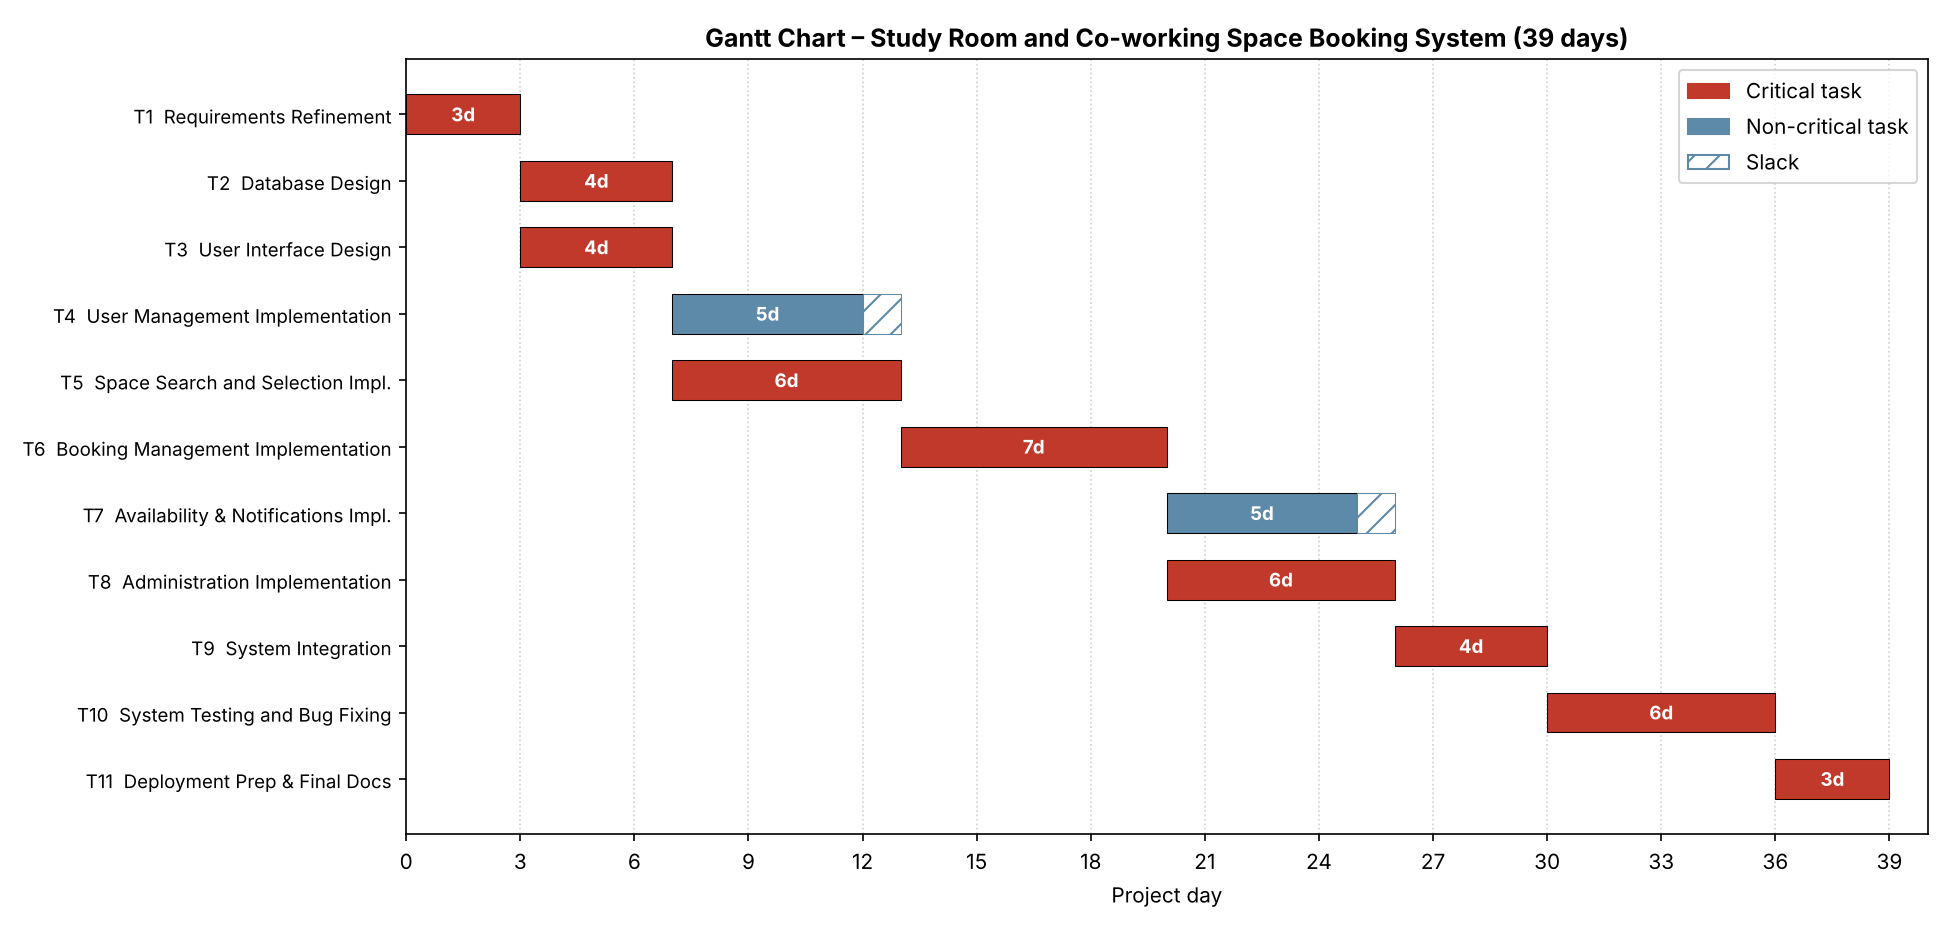
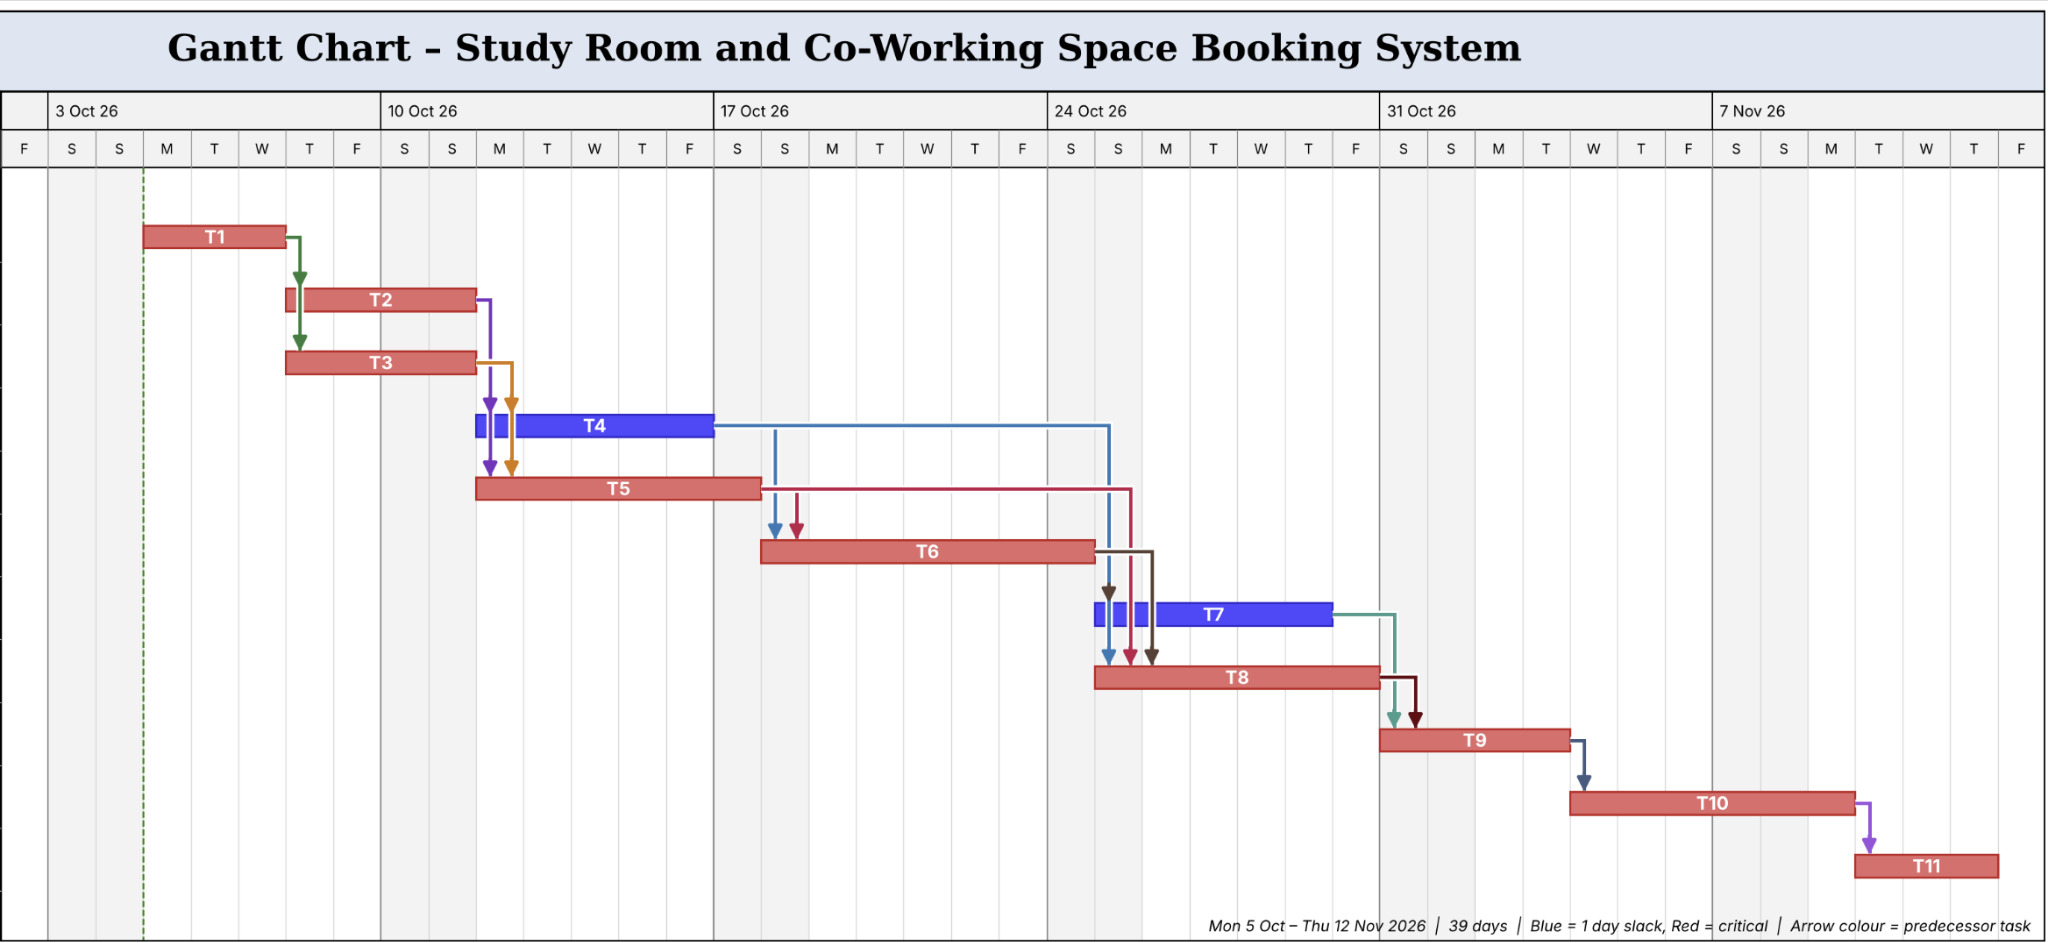
Update Lab 4 data flow and scheduling to match the final Lab 4 report
- Core Processes Matrix: replace inputs, outputs and rules with the report text
- WBS: use the report's task descriptions (Labs 1-3 scope, DeskOS integration)
- Gantt chart: replace image with the dated version and list real start/finish dates
- Network diagram: replace image with the redrawn task-on-node version
- Context diagram: replace with the higher-resolution export; map provider to the DeskOS actor
- DFD consistency check: map FR-18/FR-19 and UC-18, note reversed provider arrows in the Level-0 image
- Critical path: add the tool-based verification section

Claude-Session: https://claude.ai/code/session_01FwwSUnqeJBigKi2E32NFcy

diff --git a/Project/Data_Flow_Modeling/Core_Processes_Matrix.md b/Project/Data_Flow_Modeling/Core_Processes_Matrix.md
@@ -4,8 +4,8 @@ The processes below are the same five major processes shown in the [Level-0 DFD]
 
 | Process No. and Name | Input Data | Output Data | Rules |
 |---|---|---|---|
-| **P1 – User Management** | Registration Information, Login Information, Profile Information, Booking History Request | Registration Confirmation, Login Confirmation, Profile Information, Booking History | The system shall validate registration information before creating an account. Users must provide valid login credentials to access their accounts. Profile information can only be updated by the corresponding user. Booking history shall only be displayed for the authenticated user. |
-| **P2 – Space Search and Selection** | Search Criteria, Facility Filters, Space Details Request | Available Spaces, Space Details, Facility Information, Location Information, Availability Information | The system shall search spaces based on space type, location, date, time, duration, and capacity. Filters shall narrow results according to available facilities such as Wi-Fi, power outlets, whiteboards, and projectors. Only spaces matching the requested criteria and availability should be displayed. |
-| **P3 – Booking Management** | Booking Request, Group Booking Information, Booking Modification Request, Booking Cancellation Request, Booking History Request | Booking Confirmation, Updated Booking Information, Cancellation Confirmation, Upcoming Booking Information, Previous Booking Information | A user can book only an available space. The system shall prevent overlapping bookings for the same space and selected time period. Modifications shall only be accepted when the new option is available. Cancellation shall update the space's availability. |
-| **P4 – Availability and Notifications** | Availability Request, Space Status Request, Availability Update, Booking Information Request | Availability Information, Space Status, Availability Notification, Booking Reminder, Booking Notification | The system shall display the current availability status of spaces. Availability shall be updated when bookings are made, modified, cancelled, or when a space becomes available. Booking reminders and notifications shall be sent for relevant upcoming bookings and availability events. |
-| **P5 – Administration** | User Management Request, Space Management Information, Availability Management Information, Reservation Management Request, Room Status Request, Report Request | User Information, Space Information, Availability Information, Reservation Information, Room Status, Booking Reports, Usage Reports, Management Confirmation | Only authorized administrators can manage users, spaces, availability, and reservations. Space information must include relevant details such as capacity and facilities. Administrators can generate booking and usage reports based on stored system data. |
+| **P1 – User Management** | Registration information, login credentials, profile update information, booking history request | Registration confirmation, login confirmation, updated profile information, user information, booking history | The system shall validate registration information before creating an account. Users must provide valid credentials to log in. Only authenticated users can access their profiles and booking histories. Users can update only their own profile information. |
+| **P2 – Space Search and Selection** | Space type, location, date, time, duration, capacity, facility requirements, space details request, availability information, external space information | Available spaces, search results, space details, facility information, location information, availability information | The system shall search for spaces according to the user's selected criteria. Results shall match the requested space type, location, capacity, facilities, date, and time. Users can filter spaces based on available facilities. External space information must be processed before being displayed. |
+| **P3 – Booking Management** | Booking request, booking modification request, booking cancellation request, booking details, user information, selected space information, availability information | Booking confirmation, updated booking information, cancellation confirmation, booking status, upcoming bookings, previous bookings | A booking can only be created if the selected space is available. The system shall prevent overlapping bookings for the same space and time. Modifications must be checked against current availability. Cancellations must follow the booking cancellation policy and update the booking status. |
+| **P4 – Availability and Notification Management** | Availability request, space status request, booking information, cancellation information, modification information, notification request | Availability information, updated space availability, booking reminders, booking notifications, space-availability notifications | The system shall maintain current availability information. Availability shall be updated when bookings are created, modified, or cancelled. The system shall send booking reminders for upcoming bookings. Users who request an availability notification shall be notified when the requested space and time become available. |
+| **P5 – Administration** | User management request, space management information, facility information, availability management information, reservation management request, room status request, report request, booking data, user data, space data | Updated user information, updated space information, updated availability information, reservation information, room status information, booking reports, usage reports, management confirmation | Only authorized administrators can manage users, spaces, availability, and reservations. Administrative changes must be validated before being saved. Administrators can view and manage user accounts, manage space information, manage reservations, monitor room status, and generate booking and usage reports. |

diff --git a/Project/Data_Flow_Modeling/DFD_Consistency_Check.md b/Project/Data_Flow_Modeling/DFD_Consistency_Check.md
@@ -10,39 +10,41 @@ Every flow between an external entity and the system in the Context Diagram ente
 | User → | Booking History Request | P1 User Management / P3 Booking Management |
 | User → | Search Criteria, Facility Filters, Space Details Request | P2 Space Search and Selection |
 | User → | Booking Request, Group Booking Information, Booking Modification Request, Booking Cancellation Request | P3 Booking Management |
-| User → | Availability Request | P4 Availability and Notifications |
+| User → | Availability Request, Space Status Request | P4 Availability and Notification Management |
 | → User | Registration Confirmation, Login Confirmation, Profile Information, Booking History | P1 User Management |
 | → User | Available Spaces, Space Details, Facility / Location Information | P2 Space Search and Selection |
-| → User | Booking Confirmation, Updated Booking Information, Cancellation Confirmation, Upcoming / Previous Booking Information | P3 Booking Management |
-| → User | Availability Information, Booking Reminder, Booking Notification, Availability Notification | P4 Availability and Notifications |
+| → User | Booking Confirmation, Updated Booking Information, Cancellation Confirmation, Upcoming / Previous Bookings, Booking Status | P3 Booking Management |
+| → User | Availability Information, Booking Reminder, Booking Notification, Availability Notification | P4 Availability and Notification Management |
 | Administrator → | User Management Request, Space Management Information, Availability Management Information, Reservation Management Request, Room Status Request, Report Request | P5 Administration |
 | → Administrator | User Information, Space Information, Availability Information, Reservation Information, Room Status, Booking Reports, Usage Reports, Management Confirmation | P5 Administration |
-| → Third-Party Space Provider | External Search Request | P2 Space Search and Selection (correct direction in documentation; verify image separately) |
-| Third-Party Space Provider → | External Space Information, External Availability Information | P2 Space Search and Selection (correct direction in documentation; verify image separately) |
+| → Third-Party Space Provider | External Search Request | P2 Space Search and Selection |
+| Third-Party Space Provider → | External Space Information, External Availability Information | P2 Space Search and Selection |
 
 All Context Diagram flows appear at Level 0, and no new external flows are added. The User flows in the Context Diagram are grouped labels (for example, *Account Information*) that are split into their detailed flows at Level 0.
+
+**Note on the Level-0 image:** in the current Level-0 DFD image, the arrowheads on the three Third-Party Space Provider flows point the opposite way to the Context Diagram (External Search Request is drawn into P2, and External Space / Availability Information are drawn out to the provider). The labels and the tables above show the intended direction; the arrowheads should be flipped in Creately so both diagrams balance visually.
 
 ## Checklist
 
 | Check | Status |
 |---|---|
 | The Context Diagram represents the whole system as one process | ✅ |
-| External entities match the Use Case actors from Lab 3 | ⚠ User and Administrator match; UC-16 and UC-17 document provider integration; verify the actual Lab 3 use case diagram separately |
+| External entities match the Use Case actors from Lab 3 (User, Administrator, DeskOS / External API) | ✅ |
 | The Level-0 DFD uses the same external entities | ✅ |
-| The Context Diagram and Level-0 DFD are balanced (table above) | Textual flow tables now match; actual diagram images still require verification |
+| The Context Diagram and Level-0 DFD are balanced (table above) | ✅ in labels and tables; ⚠ provider arrowheads in the Level-0 image need flipping (see note) |
 | Level-0 contains at least five meaningful processes (P1–P5) | ✅ |
 | Level-0 contains at least two relevant data stores (D1 User Data, D2 Space Data, D3 Booking Data, D4 Notification Data) | ✅ |
 | The Core Processes Matrix contains the same processes as the Level-0 DFD | ✅ |
 | The DFD processes are consistent with the Functional Requirements and Use Cases | ✅ (see mapping below) |
 
-## Process ↔ Functional Requirement Mapping
+## Process ↔ Requirement Mapping
 
-| Process | Functional Requirements |
-|---|---|
-| P1 User Management | FR-10, FR-11, FR-13 |
-| P2 Space Search and Selection | FR-01, FR-02, FR-03, FR-16, FR-17 |
-| P3 Booking Management | FR-04, FR-05, FR-06, FR-12, FR-13 |
-| P4 Availability and Notifications | FR-05, FR-07, FR-08 |
-| P5 Administration | FR-09, FR-14, FR-15 |
+| Process | Functional Requirements | Use Cases |
+|---|---|---|
+| P1 User Management | FR-10, FR-11, FR-13 | UC-10, UC-11, UC-12 |
+| P2 Space Search and Selection | FR-01, FR-02, FR-03, FR-16, FR-17 | UC-01, UC-02, UC-03, UC-16, UC-17 |
+| P3 Booking Management | FR-04, FR-05, FR-06, FR-12, FR-13, FR-19 | UC-04, UC-05, UC-06, UC-12, UC-18 |
+| P4 Availability and Notification Management | FR-05, FR-07, FR-08 | UC-07, UC-08 |
+| P5 Administration | FR-09, FR-14, FR-15, FR-18 | UC-09, UC-13, UC-14, UC-15 |
 
-Functional requirements FR-01 through FR-17 are covered by the process mapping, including external provider integration under P2.
+Functional requirements FR-01 through FR-19 and use cases UC-01 through UC-18 are all covered by at least one process.

diff --git a/Project/Project_Scheduling/WBS.md b/Project/Project_Scheduling/WBS.md
@@ -2,16 +2,16 @@
 
 | ID | Task Name | Description | Predecessor(s) | Duration (Days) |
 |---|---|---|---|---|
-| T1 | Requirements Refinement | Review and finalize the project scope, functional requirements, non-functional requirements, scenarios, and use cases from Labs 2–3. | — | 3 |
-| T2 | Database Design | Design the database structure for users, spaces, bookings, availability, and notifications. | T1 | 4 |
-| T3 | User Interface Design | Design the main web interfaces for registration/login, space search, space details, booking, user bookings, and administration. | T1 | 4 |
-| T4 | User Management Implementation | Implement user registration, login, profile management, and booking-history functionality. | T2, T3 | 5 |
-| T5 | Space Search and Selection Implementation | Implement searching, filtering, space details, location information, and availability display for study rooms, private rooms, desks, and co-working spaces. | T2, T3 | 6 |
-| T6 | Booking Management Implementation | Implement booking, group booking, booking modification, cancellation, booking confirmation, and upcoming/previous booking functionality. | T4, T5 | 7 |
-| T7 | Availability and Notifications Implementation | Implement availability updates, space status, booking reminders, booking notifications, and notifications when occupied spaces become available. | T6 | 5 |
-| T8 | Administration Implementation | Implement user management, space management, availability management, reservation management, room-status monitoring, and usage/booking reports. | T4, T5, T6 | 6 |
-| T9 | System Integration | Integrate all implemented modules and ensure that user, space, booking, availability, notification, and administration functions work together. | T7, T8 | 4 |
-| T10 | System Testing and Bug Fixing | Test the complete system against the functional and non-functional requirements and correct identified problems. | T9 | 6 |
-| T11 | Deployment Preparation and Final Documentation | Prepare the web system for deployment, finalize documentation, and prepare the final project deliverables. | T10 | 3 |
+| T1 | Requirements Refinement | Review and finalize the project scope, scenarios, functional requirements, non-functional requirements, actors, and use cases from Labs 1–3. Resolve inconsistencies before implementation. | — | 3 |
+| T2 | Database Design | Design the data structures required for user accounts, spaces, bookings, availability, and notifications, including the relationships between the data. | T1 | 4 |
+| T3 | User Interface Design | Design interfaces for account registration, login, profile management, space search, filtering, space details, booking management, notifications, and administration. | T1 | 4 |
+| T4 | User Management Implementation | Implement account registration, authentication, login, profile management, user information, and access to booking history. | T2, T3 | 5 |
+| T5 | Space Search and Selection Implementation | Implement space searching and filtering based on location, date, time, duration, capacity, space type, and facilities. Implement space-detail viewing and integration with the third-party space provider. | T2, T3 | 6 |
+| T6 | Booking Management Implementation | Implement booking creation, booking confirmation, booking modification, booking cancellation, and viewing of upcoming and previous bookings. | T4, T5 | 7 |
+| T7 | Availability and Notification Implementation | Implement availability checking and updates, booking reminders, booking notifications, and notifications when a previously unavailable space becomes available. | T6 | 5 |
+| T8 | Administration Implementation | Implement administrator functions for managing users, spaces, facilities, availability, reservations, room status, and booking/usage reports. | T4, T5, T6 | 6 |
+| T9 | System Integration | Integrate user management, space search, booking management, availability and notification management, and administration. Verify communication with the third-party space provider and ensure the components work together correctly. | T7, T8 | 4 |
+| T10 | System Testing and Bug Fixing | Test registration, authentication, space search, filtering, external space information, booking operations, modifications, cancellations, availability updates, notifications, administration, data consistency, and system integration. Fix identified defects. | T9 | 6 |
+| T11 | Deployment Preparation and Final Documentation | Prepare the system for deployment, finalize system documentation, verify the final functionality, and organize the project deliverables and repository. | T10 | 3 |
 
 Implementation tasks T4–T8 match the Level-0 DFD processes P1–P5.

diff --git a/Project/Project_Scheduling/Gantt_Chart/README.md b/Project/Project_Scheduling/Gantt_Chart/README.md
@@ -1,42 +1,25 @@
 # Gantt Chart
 
-The activities below are the same as in the [WBS](../WBS.md). Days are counted from the project start (day 0), and each task starts at its Earliest Start.
+The activities below are the same as in the [WBS](../WBS.md). The project starts on **Monday 5 October 2026** and finishes on **Thursday 12 November 2026** (39 days). Each task starts at its Earliest Start, and days are counted as calendar days.
 
 ![Gantt Chart](Gantt_Chart.png)
 
+Red bars are critical tasks (no slack). Blue bars (T4 and T7) are non-critical and have 1 day of slack. Arrow colour shows the predecessor task.
+
 ## Schedule
 
-| ID | Task | Duration | Start (end of day) | Finish (end of day) | Predecessors |
-|---|---|---|---|---|---|
-| T1 | Requirements Refinement | 3 | 0 | 3 | — |
-| T2 | Database Design | 4 | 3 | 7 | T1 |
-| T3 | User Interface Design | 4 | 3 | 7 | T1 |
-| T4 | User Management Implementation | 5 | 7 | 12 | T2, T3 |
-| T5 | Space Search and Selection Implementation | 6 | 7 | 13 | T2, T3 |
-| T6 | Booking Management Implementation | 7 | 13 | 20 | T4, T5 |
-| T7 | Availability and Notifications Implementation | 5 | 20 | 25 | T6 |
-| T8 | Administration Implementation | 6 | 20 | 26 | T4, T5, T6 |
-| T9 | System Integration | 4 | 26 | 30 | T7, T8 |
-| T10 | System Testing and Bug Fixing | 6 | 30 | 36 | T9 |
-| T11 | Deployment Preparation and Final Documentation | 3 | 36 | 39 | T10 |
+| ID | Task | Duration (days) | Start | Finish | Predecessors | Slack |
+|---|---|---|---|---|---|---|
+| T1 | Requirements Refinement | 3 | Mon 5 Oct | Wed 7 Oct | — | 0 |
+| T2 | Database Design | 4 | Thu 8 Oct | Sun 11 Oct | T1 | 0 |
+| T3 | User Interface Design | 4 | Thu 8 Oct | Sun 11 Oct | T1 | 0 |
+| T4 | User Management Implementation | 5 | Mon 12 Oct | Fri 16 Oct | T2, T3 | 1 |
+| T5 | Space Search and Selection Implementation | 6 | Mon 12 Oct | Sat 17 Oct | T2, T3 | 0 |
+| T6 | Booking Management Implementation | 7 | Sun 18 Oct | Sat 24 Oct | T4, T5 | 0 |
+| T7 | Availability and Notification Implementation | 5 | Sun 25 Oct | Thu 29 Oct | T6 | 1 |
+| T8 | Administration Implementation | 6 | Sun 25 Oct | Fri 30 Oct | T4, T5, T6 | 0 |
+| T9 | System Integration | 4 | Sat 31 Oct | Tue 3 Nov | T7, T8 | 0 |
+| T10 | System Testing and Bug Fixing | 6 | Wed 4 Nov | Mon 9 Nov | T9 | 0 |
+| T11 | Deployment Preparation and Final Documentation | 3 | Tue 10 Nov | Thu 12 Nov | T10 | 0 |
 
 **Overall project duration: 39 days.**
-
-## Timeline view
-
-```
-      0    0    1    1    2    2    3    3    
-      0····5····0····5····0····5····0····5····
-T1    ███
-T2       ████
-T3       ████
-T4           ░░░░░
-T5           ██████
-T6                 ███████
-T7                        ░░░░░
-T8                        ██████
-T9                              ████
-T10                                 ██████
-T11                                       ███
-```
-█ critical task   ░ non-critical task (1 day of slack)

diff --git a/Project/Data_Flow_Modeling/Level_0_DFD/README.md b/Project/Data_Flow_Modeling/Level_0_DFD/README.md
@@ -1,6 +1,6 @@
 # Level-0 Data Flow Diagram
 
-The Level-0 DFD breaks Process 0 from the Context Diagram into five major processes. It uses the same external entities as the Context Diagram: **User**, **Administrator**, and **Third-Party Space Provider**.
+The Level-0 DFD breaks Process 0 from the Context Diagram into five major processes. It uses the same external entities as the Context Diagram: **User**, **Administrator**, and **Third-Party Space Provider** (the DeskOS / External API actor in the Use Case Diagram).
 
 Editable diagram (Creately): https://app.creately.com/d/lNShtZgzeFY/edit
 
@@ -12,9 +12,9 @@ Editable diagram (Creately): https://app.creately.com/d/lNShtZgzeFY/edit
 |---|---|---|
 | P1 | User Management | FR-10, FR-11, FR-13 |
 | P2 | Space Search and Selection | FR-01, FR-02, FR-03, FR-16, FR-17 |
-| P3 | Booking Management | FR-04, FR-05, FR-06, FR-12, FR-13 |
+| P3 | Booking Management | FR-04, FR-05, FR-06, FR-12, FR-13, FR-19 |
 | P4 | Availability and Notifications | FR-05, FR-07, FR-08 |
-| P5 | Administration | FR-09, FR-14, FR-15 |
+| P5 | Administration | FR-09, FR-14, FR-15, FR-18 |
 
 The inputs, outputs, and rules for each process are in [Core_Processes_Matrix.md](../Core_Processes_Matrix.md).
 

diff --git a/Project/Project_Scheduling/Critical_Path.md b/Project/Project_Scheduling/Critical_Path.md
@@ -25,3 +25,7 @@ T4 (User Management Implementation) and T7 (Availability and Notifications Imple
 
 - T4 finishes on day 12, but T6 can't start until T5 finishes on day 13.
 - T7 finishes on day 25, but T9 can't start until T8 finishes on day 26.
+
+## Tool-Based Verification
+
+The [Gantt Chart](Gantt_Chart/README.md) produced with a scheduling tool confirms the result: the project runs from Mon 5 Oct to Thu 12 Nov 2026 (39 days), every critical task is shown with no slack, and only T4 and T7 show 1 day of slack.

diff --git a/Project/Data_Flow_Modeling/Context_Diagram/README.md b/Project/Data_Flow_Modeling/Context_Diagram/README.md
@@ -12,7 +12,7 @@ Editable diagram (Creately): https://app.creately.com/d/lNShtZgzeFY/edit
 |---|---|
 | User | User (student / booker) |
 | Administrator | Administrator |
-| Third-Party Space Provider / External API | Not in the Lab 3 Use Case Diagram |
+| Third-Party Space Provider / External API | DeskOS / External API |
 
 ## Data Flows
 
